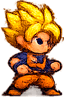
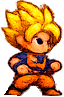
se agrego mas imgs para animaciones

diff --git a/main.py b/main.py
@@ -158,8 +158,8 @@ def escalar_imagen(imagen, escala):
     return pygame.transform.scale(imagen, (ancho_nuevo, alto_nuevo))
 
 animaciones = []
-for i in range(7):
-    imagen = pygame.image.load(f"assets/characters/p_{i}.png")
+for i in range(21):
+    imagen = pygame.image.load(f"assets/characters/personaje_{i}.png")
     imagen_escalada = escalar_imagen(imagen, constantes.SCALA_IMAGEN)
     animaciones.append(imagen_escalada)
 

diff --git a/constantes.py b/constantes.py
@@ -7,6 +7,6 @@ BG_COLOR = (0, 0, 20)  # Morado
 ANCHO_PERSONAJE = 20
 ALTO_PERSONAJE = 20
 
-VELOCIDAD_PERSONAJE = 5
+VELOCIDAD_PERSONAJE = 10
 
-SCALA_IMAGEN = 1
+SCALA_IMAGEN = 0.8
